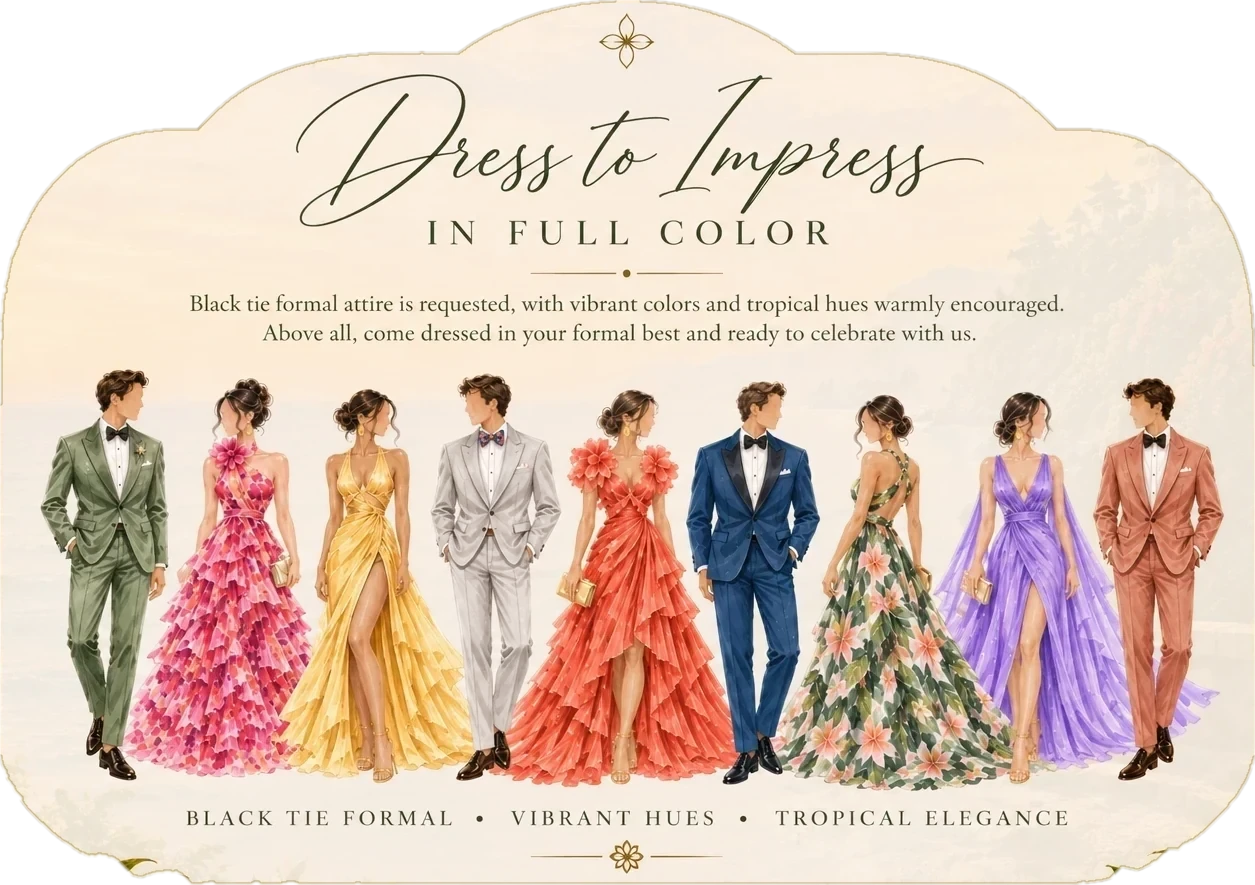
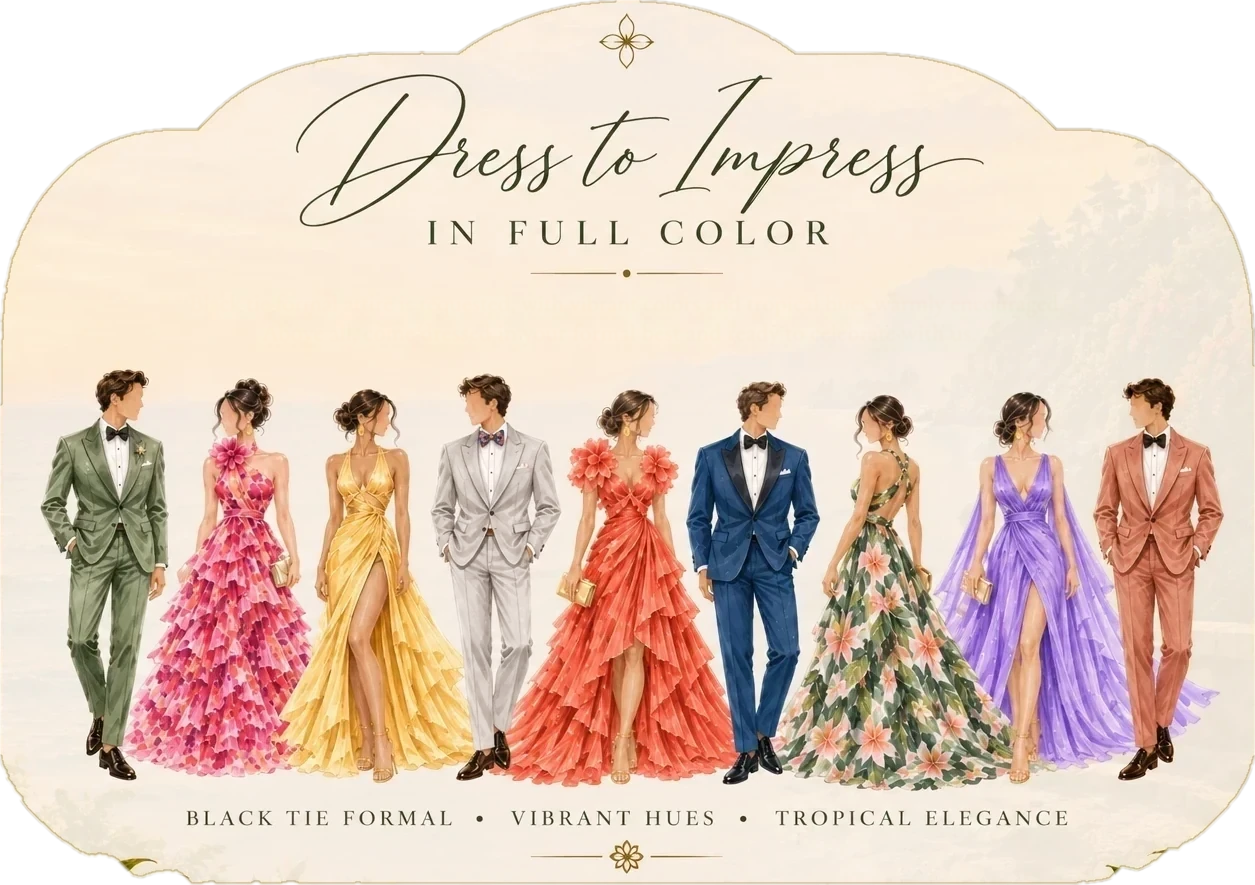
Dress code copy lives in text only; the reply button stays on screen
- The painted copy line is inpainted out of the dress panel, so the
  painting stays purely visual and the readable text panel under it
  (now on every screen size) carries the words once.
- The Send reply button is sticky at the bottom of the viewport while
  the form is on screen, so it is always one tap away; the reply-by
  line no longer collides with the heading when it wraps.

Claude-Session: https://claude.ai/code/session_01GqK2ENqeRUwQmtgcSZFd9X

Changed region(s): [[0.1554, 0.3356, 0.839, 0.3966]]

diff --git a/index.html b/index.html
@@ -462,8 +462,7 @@ hr.rule{border:0;border-top:1px solid rgba(89,96,68,.2);margin:2.5em 0}
 .dress-plate.is-in{opacity:1;transform:none}
 .dress-plate img{display:block;width:100%;height:auto;max-width:100%}
 .dress-plate.is-static{opacity:1;transform:none;transition:none}
-.dress-copy{display:none}
-@media (max-width:700px){.dress-copy{display:block;width:min(88vw,520px);margin:16px auto 0;padding:1em 1.3em;background:rgba(248,243,232,.86);border:1px solid rgba(155,139,87,.7);border-radius:22px;font-size:17px;line-height:1.5;color:var(--olive);text-align:center}.dress-copy b{display:block;font-family:var(--serif);font-weight:400;font-size:21px;margin-bottom:.35em}}
+.dress-copy{display:block;width:min(88vw,560px);margin:18px auto 0;padding:1.05em 1.5em;background:rgba(248,243,232,.86);border:1px solid rgba(155,139,87,.7);border-radius:26px;font-size:17px;line-height:1.5;color:var(--olive);text-align:center}
 .pav.is-static,.pav.is-static *{transition:none!important}
 
 /* Adults only */
@@ -515,7 +514,7 @@ hr.rule{border:0;border-top:1px solid rgba(89,96,68,.2);margin:2.5em 0}
 .btn{display:inline-block;background:var(--olive);color:var(--ivory);border:1px solid var(--olive);padding:.9em 1.9em;border-radius:999px;font-weight:500;cursor:pointer;letter-spacing:.01em;transition:background .2s,opacity .2s}
 .btn:hover{background:#485038}
 .btn[disabled]{opacity:.55;cursor:default}
-.rsvp form .btn{display:block;margin:.8em auto 0}
+.rsvp form .btn{display:block;margin:.8em auto 0;position:sticky;bottom:max(16px,env(safe-area-inset-bottom));z-index:3;box-shadow:0 10px 26px -10px rgba(36,39,34,.55),0 0 0 6px rgba(248,243,232,.85)}
 .rsvp .form-error{margin-left:auto;margin-right:auto;text-align:center}
 .form-error{display:none;margin-top:1.2em;font-size:14.5px;color:#A2623F;max-width:44ch}
 .form-error.is-visible{display:block}
@@ -525,7 +524,7 @@ hr.rule{border:0;border-top:1px solid rgba(89,96,68,.2);margin:2.5em 0}
 .confirm .mono{font-size:14px;letter-spacing:.14em;text-transform:uppercase;color:var(--gold-line);display:block;margin-top:1.6em}
 .gate{max-width:46ch;font-size:16.5px}
 .gate p{margin-bottom:.8em}
-.rsvp .deadline{font-family:var(--mono);font-size:14px;letter-spacing:.14em;text-transform:uppercase;color:var(--gold-line);margin:-1.6em 0 2.6em}
+.rsvp .deadline{font-family:var(--mono);font-size:14px;letter-spacing:.14em;text-transform:uppercase;color:var(--gold-line);margin:-.6em 0 2.4em;line-height:1.5}
 
 /* Footer: a small arch of its own */
 .footer{color:var(--olive);padding:0 var(--gutter) max(48px,env(safe-area-inset-bottom))}
@@ -927,7 +926,7 @@ hr.rule{border:0;border-top:1px solid rgba(89,96,68,.2);margin:2.5em 0}
   <figure class="dress-plate" id="dressPlate">
     <img src="assets/dress-plate.webp" alt="Dress to impress, in full color. Black tie formal attire is requested, with vibrant colors and tropical hues warmly encouraged. Above all, come dressed in your formal best and ready to celebrate with us. Nine guests in colorful formalwear: a sage green tuxedo, gowns in pink, yellow, coral, floral and lavender, and suits in grey, navy and terracotta. Black tie formal, vibrant hues, tropical elegance." width="1255" height="885" loading="lazy" decoding="async">
   </figure>
-  <p class="dress-copy"><b>Dress to impress, in full color.</b> Black tie formal attire is requested, with vibrant colors and tropical hues warmly encouraged. Above all, come dressed in your formal best and ready to celebrate with us.</p>
+  <p class="dress-copy">Black tie formal attire is requested, with vibrant colors and tropical hues warmly encouraged. Above all, come dressed in your formal best and ready to celebrate with us.</p>
 </section>
 
 <!-- =======================================================================
